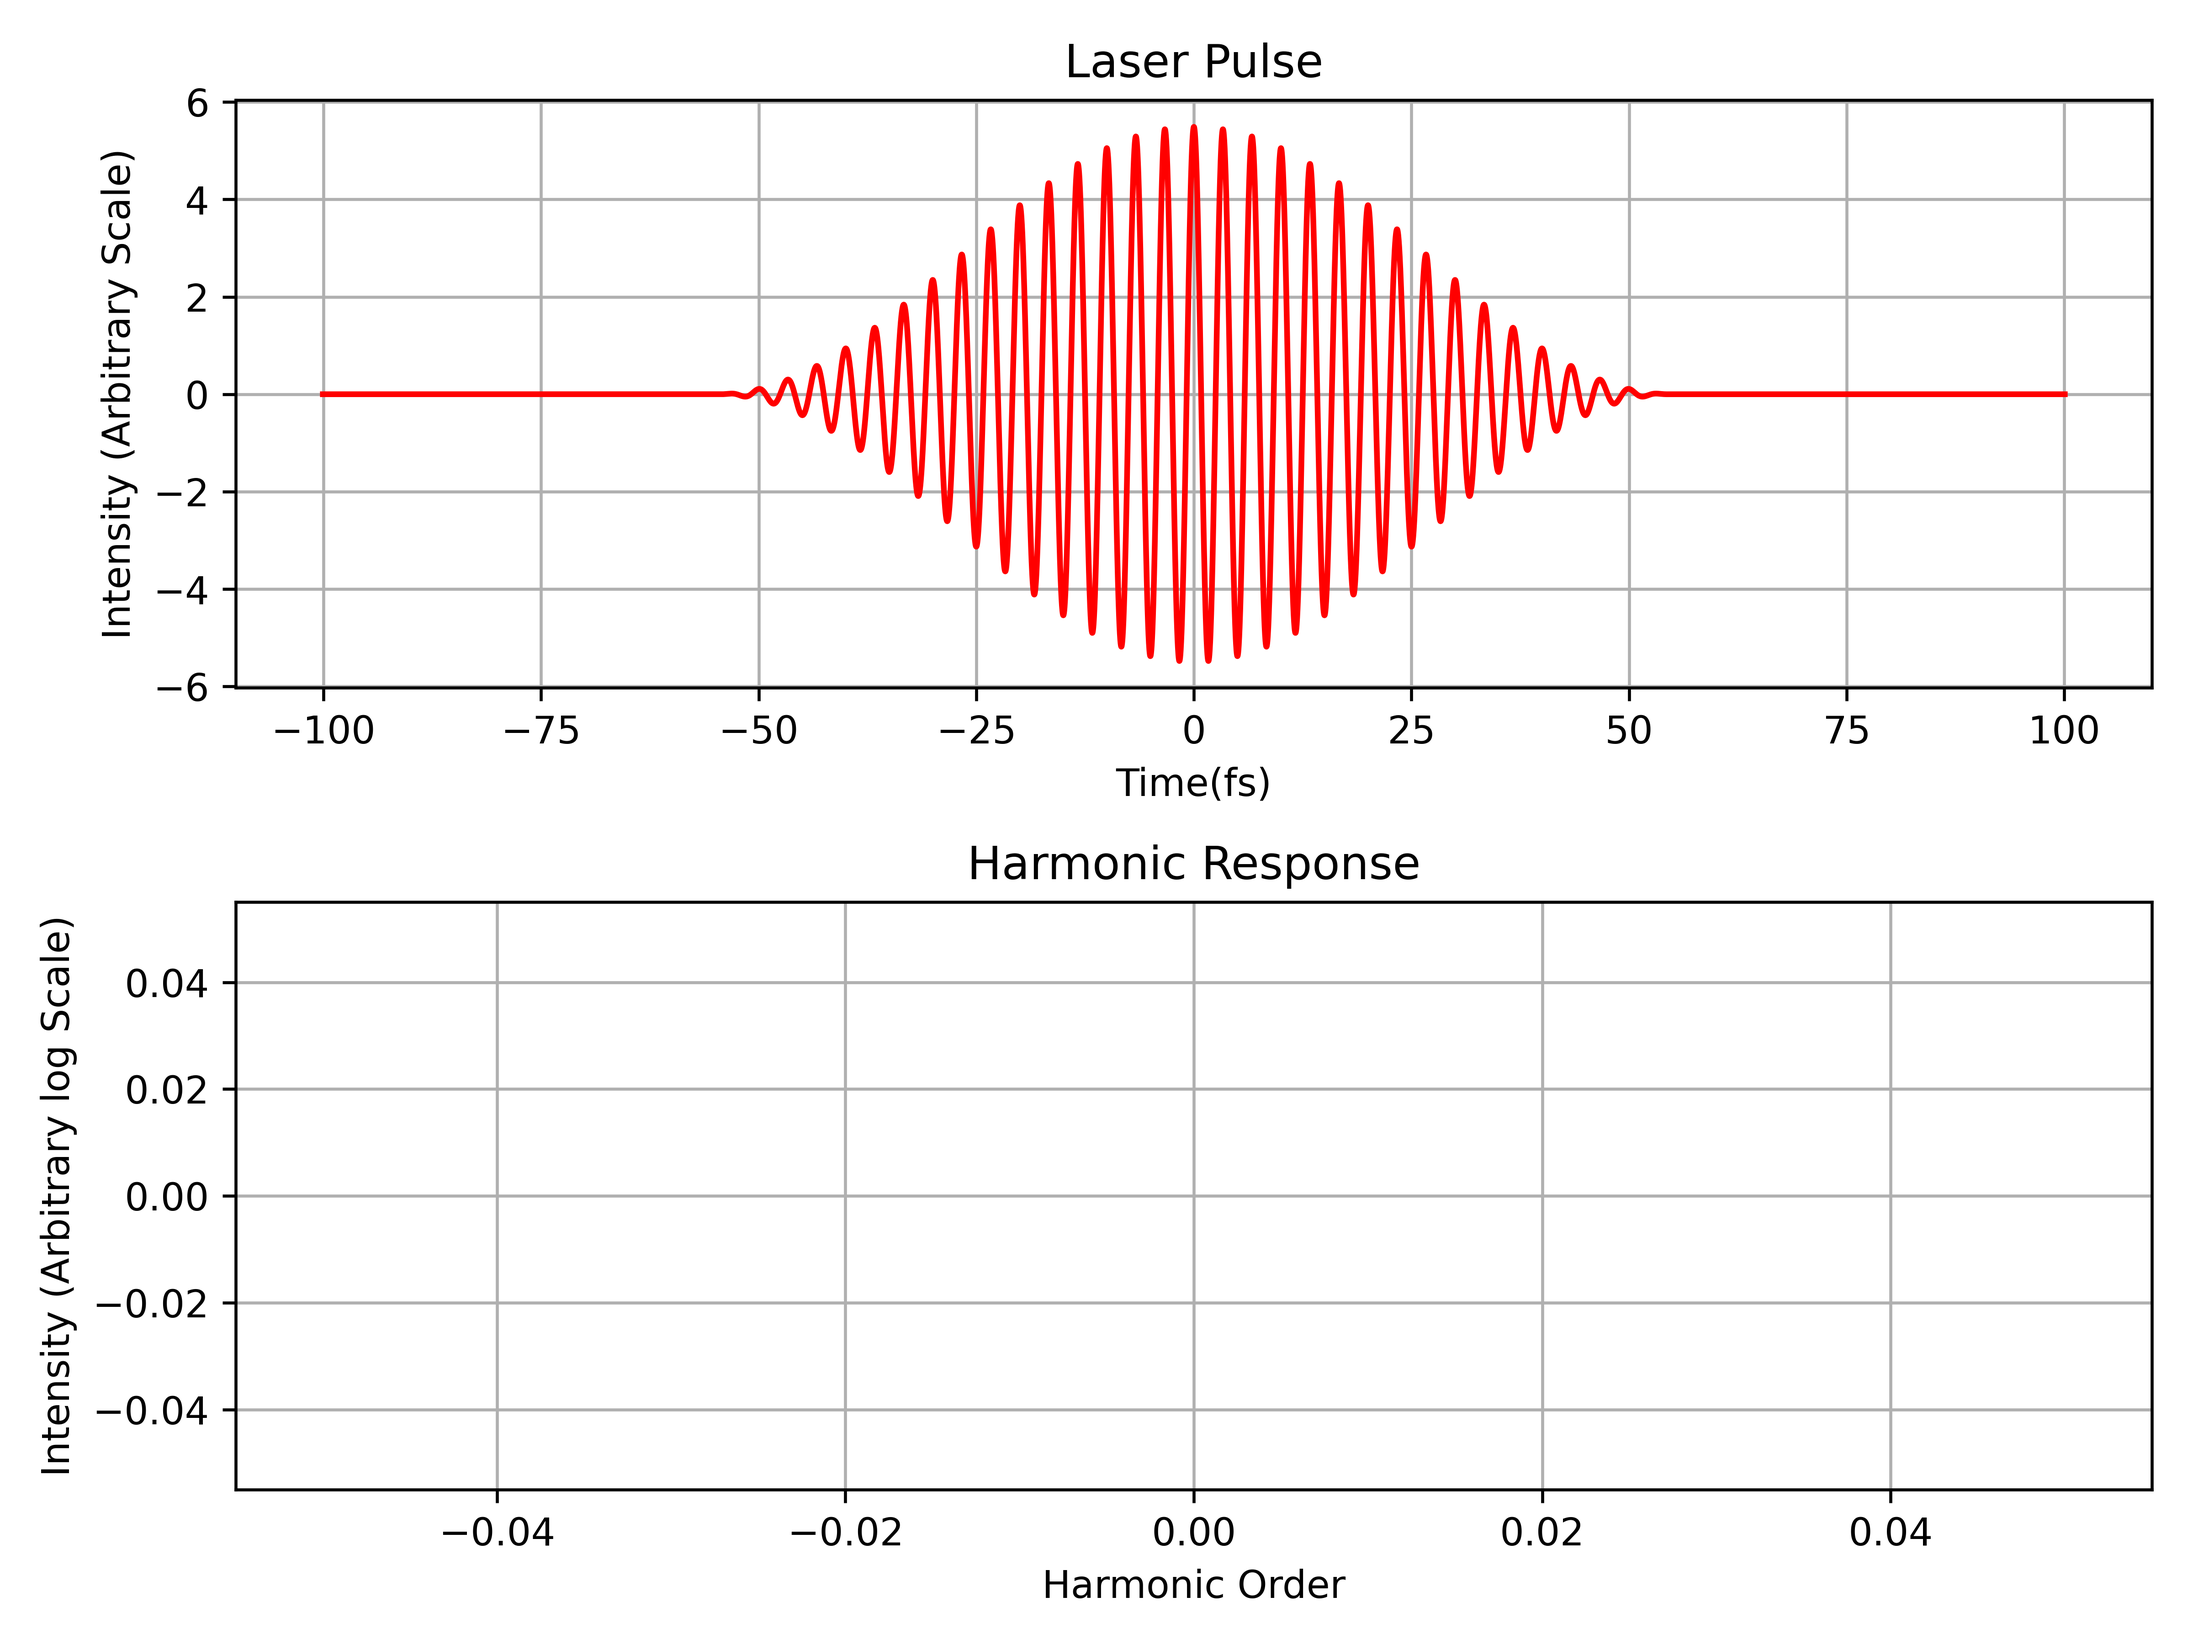
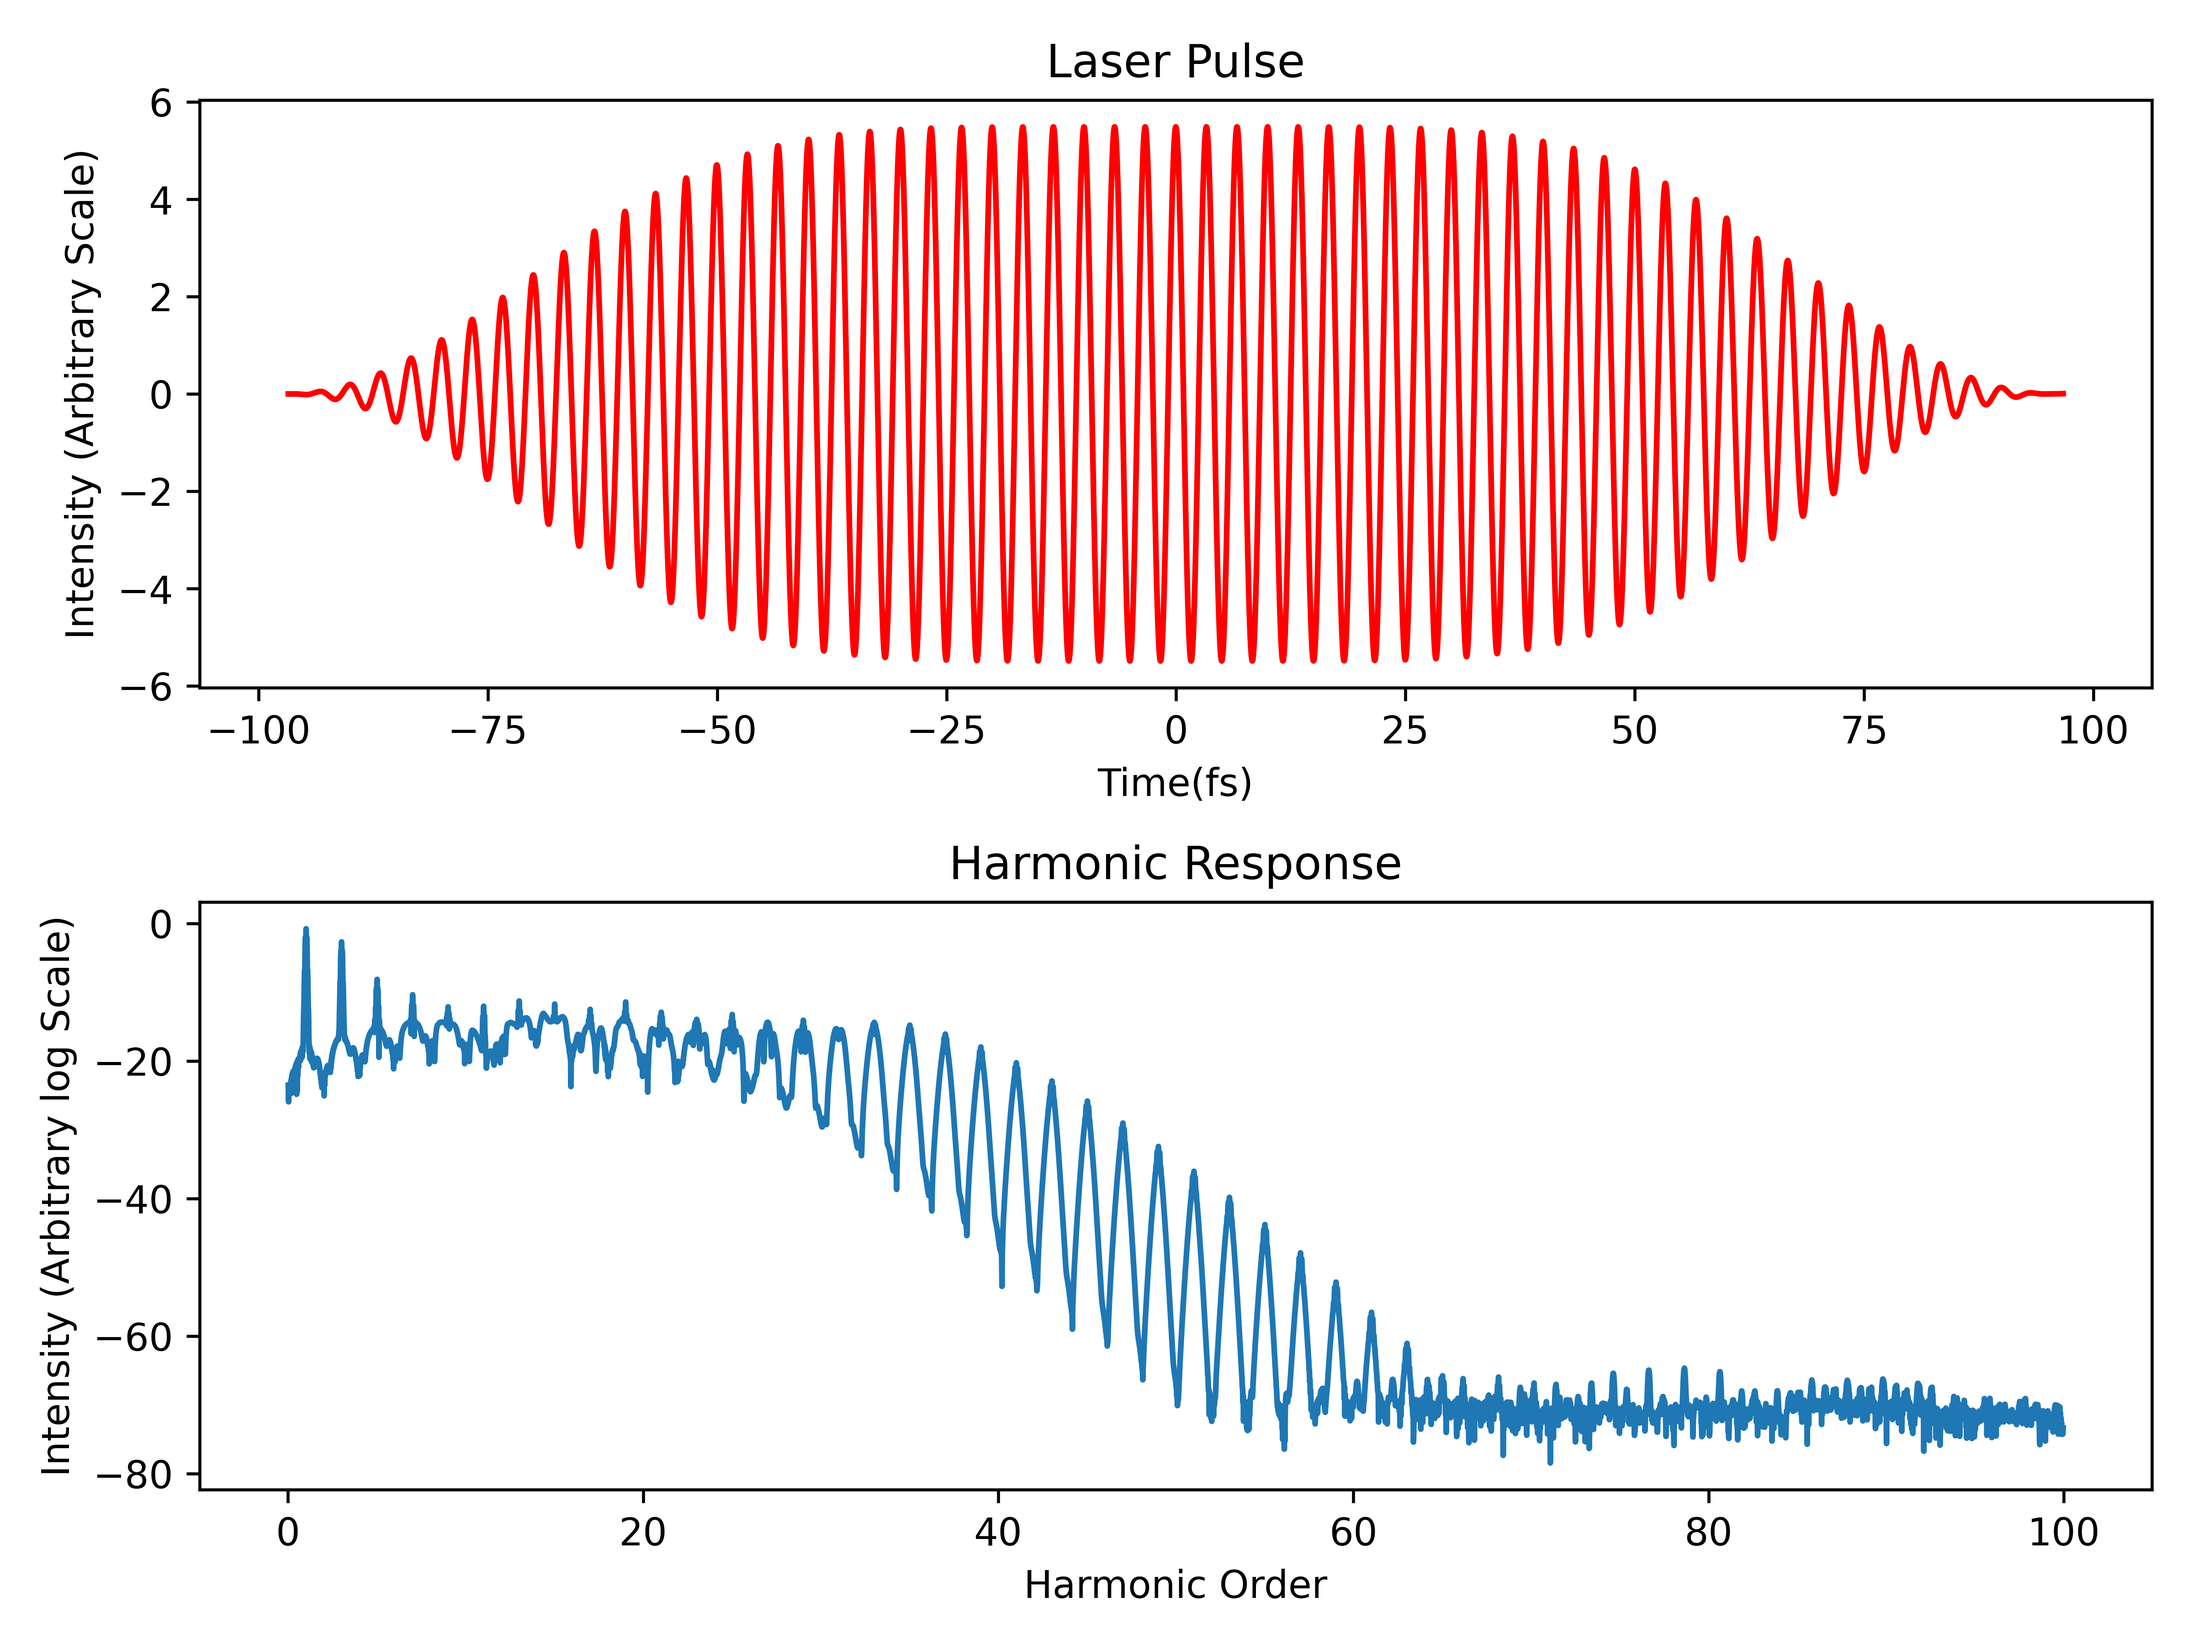
Almost done with the poster

diff --git a/src/morlettransform.py b/src/morlettransform.py
@@ -16,7 +16,7 @@ def morlet(k,W,s):
     
     return pref*np.exp(-((W - xf*k)**2)/2)
 
-def wavelet_transform(signal, t=None, maxF=0.2, maxT=0.1, JN=300, W=7):
+def wavelet_transform(signal, t=None, maxF=0.13, maxT=0.01, JN=300, W=1):
     """
     Performs a continuous wavelet transform (CWT) using the Morlet wavelet.
     
@@ -32,9 +32,9 @@ def wavelet_transform(signal, t=None, maxF=0.2, maxT=0.1, JN=300, W=7):
     if t is None:
         t = 2*np.pi*np.linspace(0,60,signal.size)
         
-    t = t - t[0] +0.00001
+    # t = t - t[0] +0.00001
     
-    lambda0 = 800e-9  # Laser wavelength [m]
+    lambda0 = 1000e-9  # Laser wavelength [m]
     C = 3e8           # Speed of light [m/s]
     T0 = lambda0 / C
     omega0 = 2 * np.pi / T0
@@ -53,35 +53,40 @@ def wavelet_transform(signal, t=None, maxF=0.2, maxT=0.1, JN=300, W=7):
     wave = np.zeros((JN, N), dtype=np.complex128)
 
     fsig = np.fft.fft(signal)
-
+    print(fsig[np.where(fsig!=0)].size)
     for n in range(JN):
         j = n + js
         s[n] = s0 * 2**(j * dj)
         M = morlet(N, W, s[n])  # Assumes morlet returns frequency-domain filter
         Msig = M * fsig
+
         wave[n, :] = np.flip(np.fft.ifft(np.flip(Msig)))
           # matches MATLAB fliplr
 
     S = W / (2 * np.pi * s) * (1 / T)
     Snew = S / omega0
-
+    # 
     # Plotting
     plt.figure(figsize=(10, 6))
-    plt.imshow(np.log(np.abs(wave)**2), extent=[t[0]/1e-15, t[-1]/1e-15, Snew[-1], Snew[0]], 
+    plt.imshow(np.log(np.abs(wave)**2), extent=[t[0]/1e-15, t[-1]/1e-15, Snew[0], Snew[-1]], 
                aspect='auto', cmap='jet')
     clim = plt.gci().get_clim()
     plt.clim(clim[1] - 10, clim[1])
     plt.xlabel('Time [fs]', fontsize=24)
     plt.ylabel('Harmonic order', fontsize=24)
-    plt.gca().invert_yaxis()
+    # plt.gca().invert_yaxis()
     plt.xticks(fontsize=16)
     plt.yticks(fontsize=16)
     plt.gcf().set_facecolor('white')
     plt.tight_layout()
+    plt.savefig('/home/alex/Desktop/Python/SNAIL/images/gaborplot.png',dpi=300)
     plt.show()
+    # return wave, t, S
 
-    return wave, t, S
+response1 = np.load('/home/alex/Desktop/Python/SNAIL/src/stored_arrays/single.npy')
+time = np.load('/home/alex/Desktop/Python/SNAIL/src/stored_arrays/time.npy')
+time =  time - time[0]
+windowrange = [7000,8000]
 
-response1 = np.load('/home/alex/Desktop/Python/SNAIL/src/stored_arrays/response.npy')
-wavelet_transform(response1)
+wavelet_transform(response1[windowrange[0]:windowrange[1]],time[windowrange[0]:windowrange[1]])
 

diff --git a/examples/1D_single_atom.py b/examples/1D_single_atom.py
@@ -32,12 +32,12 @@ sau =  general_tools.sau_convert
 '''
 
 
-config.calculation_cycles = 60
+config.calculation_cycles = 58
 config.ppcycle = 200
 config.wavelength = 1e-3
 config.peak_intensity = 1e14
-config.pulse_shape = 'cos_sqr'
-config.pulse_duration = 40 # In fs
+config.pulse_shape = 'sin_6'
+config.pulse_duration = 35 # In fs
 config.parallel = False
 
 
@@ -54,7 +54,7 @@ config.parallel = False
 
 config.ionization_potential = 12.13
 
-config.tau_window_length = 1# How far back over excursion time to integrate over, as a fraction of a cycle
+config.tau_window_length = 2# How far back over excursion time to integrate over, as a fraction of a cycle
 config.tau_dropoff_pts = 0.43 # Fraction of the integration window past which the integrands drop off to prevent artifacts
 
 # config.parallelize = True
@@ -62,7 +62,7 @@ xv,yv,zv = [np.array([0]) for i in range(3)]
 
 
 start = time.time()
-valrang = [0,80]
+valrang = [0,100]
 lawvals = []
 hbar = 1.05457181e-34/(1.6*1e-19)
 c = 3e8
@@ -96,12 +96,12 @@ start = time.time()
 
 # config.parallel = True
 
+np.save('/home/alex/Desktop/Python/SNAIL/src/stored_arrays/response.npy',response1)
 
 omega1 = omega1[np.where(omega1>valrang[0])]
 response1 = response1[np.where(omega1>valrang[0])]
 response1 = response1[np.where(omega1<valrang[1])]
 
-np.save('/home/alex/Desktop/Python/SNAIL/src/stored_arrays/response.npy',response1)
 response1 = np.log(np.abs(response1[np.where(omega1<valrang[1])])**2)
 output = np.load('/home/alex/Desktop/Python/SNAIL/src/stored_arrays/output.npy')
 diff = abs(matlabarray[:-1]-output)
@@ -123,8 +123,8 @@ axs[1].set_xlabel('Harmonic Order')
 axs[1].set_ylabel('Intensity (Arbitrary log Scale)')
 
 # axs[0].vlines(int(cutoff),min(response1),max(response1),'k',linewidth=0.5)
-axs[0].grid(True)
-axs[1].grid(True)
+# axs[0].grid(True)
+# axs[1].grid(True)
 # axs[0].set_xlabel('High Harmonic Order')`
 t = general_tools.generate_t(config)
 t_fs = general_tools.sau_convert(t,'t','SI',config)/1e-15

diff --git a/src/integration_tools.py b/src/integration_tools.py
@@ -56,12 +56,13 @@ def lewenstein(t,Et_data,lconfig,at=None,epsilon_t=1e-4):
     
     c = (np.pi/(epsilon_t + 0.5*1j*t[:ws]))**1.5
     
-    bigBt = Bt*np.c_[np.ones(ws-1)]
+    bigBt = Bt*np.c_[np.ones(ws)]
 
-    temptBt = bigBt[np.c_[:bigBt.shape[0]], (np.r_[:bigBt.shape[1]] - np.c_[1:ws]) % bigBt.shape[1]]
+    temptBt = bigBt[np.c_[:bigBt.shape[0]], (np.r_[:bigBt.shape[1]] - np.c_[:ws]) % bigBt.shape[1]]
+
     
-    pst = (bigBt - temptBt)/np.c_[t[1:ws]]
-    pst = np.vstack((At,pst))
+    pst = (bigBt - temptBt)/np.c_[t[:ws]]
+    pst[0] = At
         
     
     
@@ -85,9 +86,9 @@ def lewenstein(t,Et_data,lconfig,at=None,epsilon_t=1e-4):
     SQR = np.square
     integral = np.zeros((ws,N))
     dt = np.diff(t)
-
+    t[0] = 1
     Sst = -(0.5/np.c_[t[:ws]])*SQR(bigBt - temptBt) + 0.5*(bigCt-temptCt) + Ip*np.c_[t[:ws]]
-    
+    t[0] = 0
     Sst[0] = Sst[0]*0
     
     del bigBt

diff --git a/examples/cutofflaw.py b/examples/cutofflaw.py
@@ -25,11 +25,11 @@ valrang = [0,100]
 
 # results = np.zeros((10,4998))
 cutoff = []
-fig,axs = plt.subplots(1,1,figsize=(6,4))
+fig,axs = plt.subplots(1,1,figsize=(6,3))
 for i in range(7):
     config.ionization_potential = 12 + 0.3*i
     config.peak_intensity = 1e14 + 0.12e14*i
-    [driving_field] = general_tools.generate_pulse(config)
+    driving_field = general_tools.generate_pulse(config)
     [omega1,response1] = general_tools.dipole_response([[0,0,0]],driving_field,config)
 
     omega1 = omega1[np.where(omega1>valrang[0])]
@@ -62,7 +62,7 @@ plt.legend()
 
    
 axs.set_xlabel('Harmonic Order')
-axs.set_ylabel('Intensity (arbitary log scale)')
+# axs.set_ylabel('Intensity (arbitary log scale)')
 axs.set_title('Cutoff Law Demonstration With Simulated Data')
 plt.tight_layout() 
 plt.savefig('/home/alex/Desktop/Python/SNAIL/images/cutofflaw.png',dpi=300)

diff --git a/src/general_tools.py b/src/general_tools.py
@@ -233,7 +233,7 @@ def dipole_response(points,driving_field,config):
 
         d_t = lewenstein(t,driving_field,config)#*t_windowº
         d_t = d_t*wind
-   
+        np.save('/home/alex/Desktop/Python/SNAIL/src/stored_arrays/time.npy',sau_convert(t,'t','si',config))
         
         d_omega = np.conj(np.fft.fft(d_t)) 
         d_omega = d_omega*np.exp(-1j*omega*t[0])*(t[1]-t[0])
